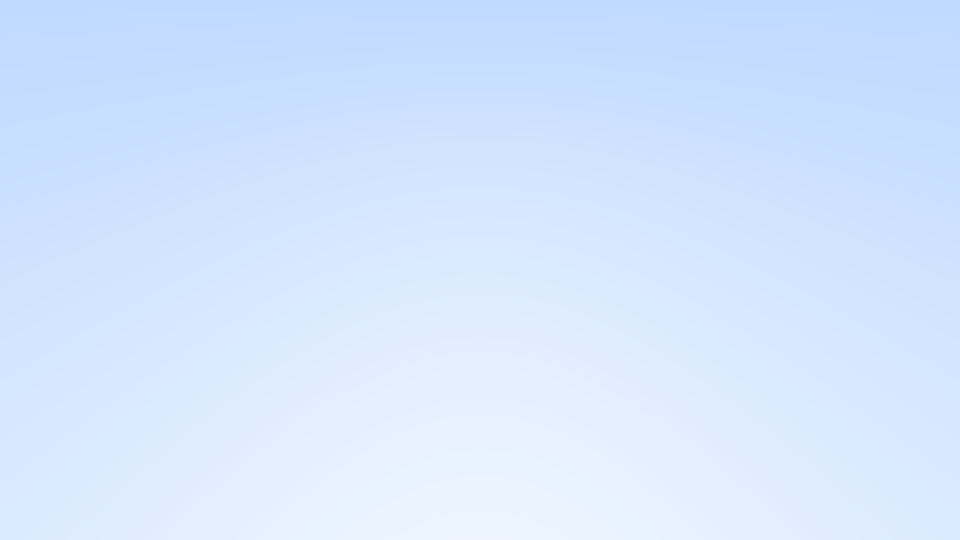
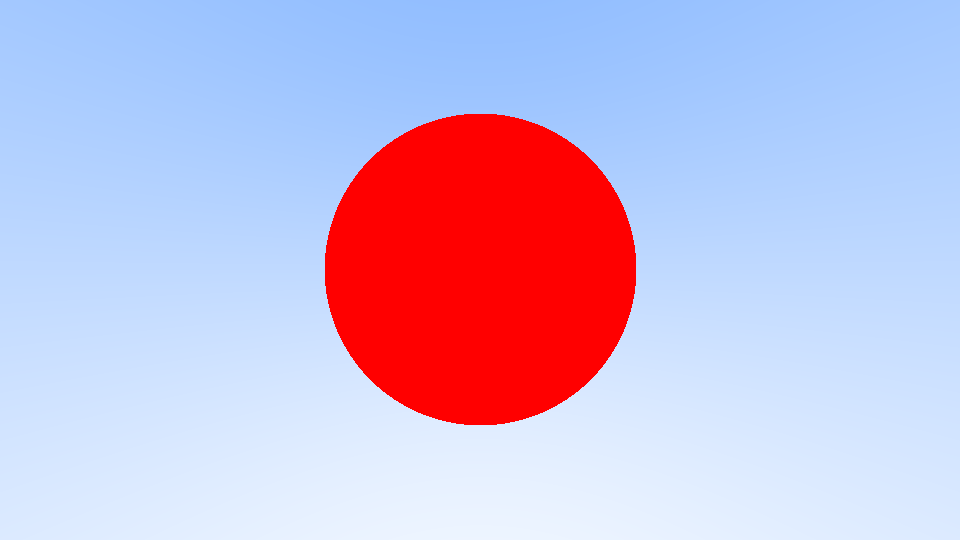
add sphere object
An example to test our logic for ray tracer.

diff --git a/src/tracer.cpp b/src/tracer.cpp
@@ -1,7 +1,19 @@
 #include <iostream>
 #include "include/ray.hpp"
 
+bool hit_sphere(const vec3 &center, float radius, const ray &r) {
+	vec3 oc = r.origin() - center;
+	float a = vec3::dot(r.direction(), r.direction());
+	float b = 2.0f * vec3::dot(oc, r.direction());
+	float c = vec3::dot(oc, oc) - radius * radius;
+	float discriminant = b * b - 4 * a * c;
+
+	return discriminant > 0;
+}
+
 vec3 color(const ray& r) {
+	if (hit_sphere(vec3(0.0f, 0.0f, -1.0f), 0.5f, r))
+		return vec3(1.0f, 0.0f, 0.0f);
 	vec3 unit_direction = vec3::unit_vector(r.direction());
 	float t = 0.5f * (unit_direction.y() + 1.0f);
 
